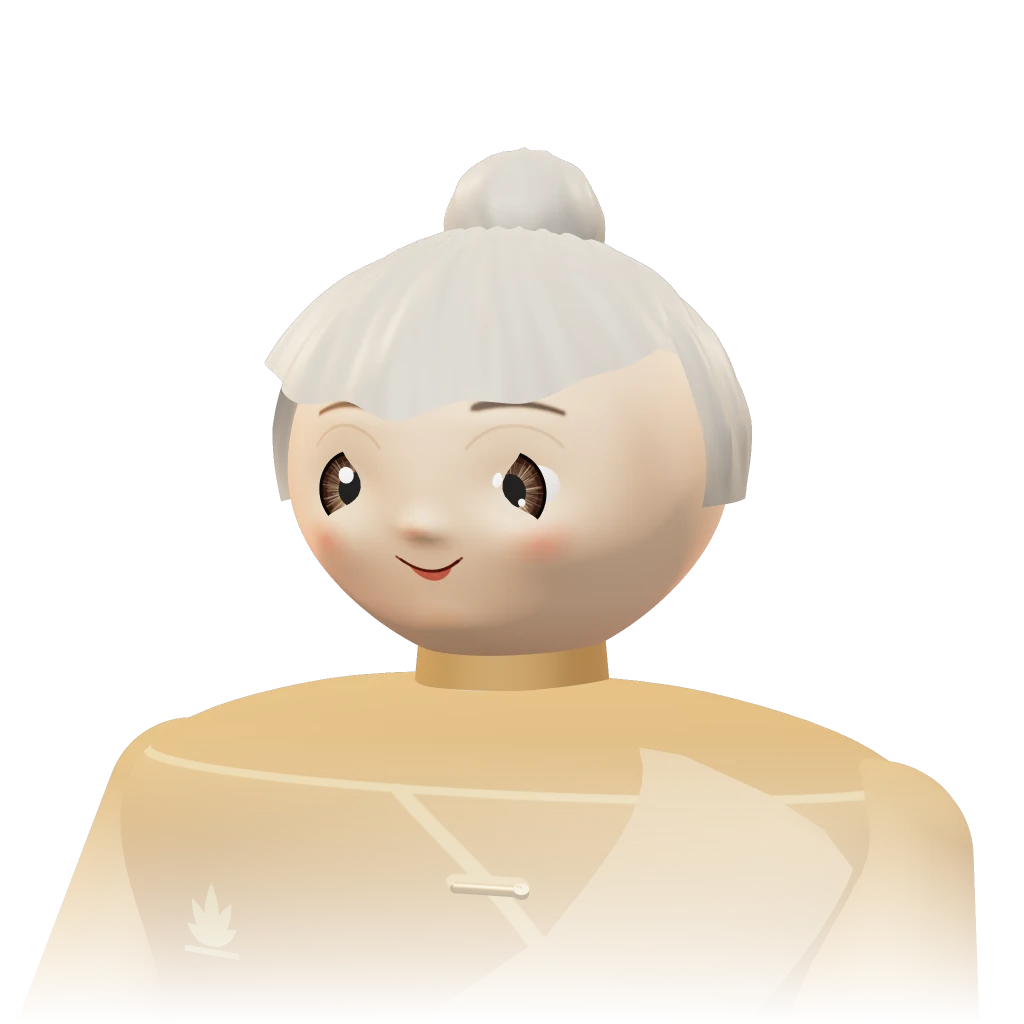
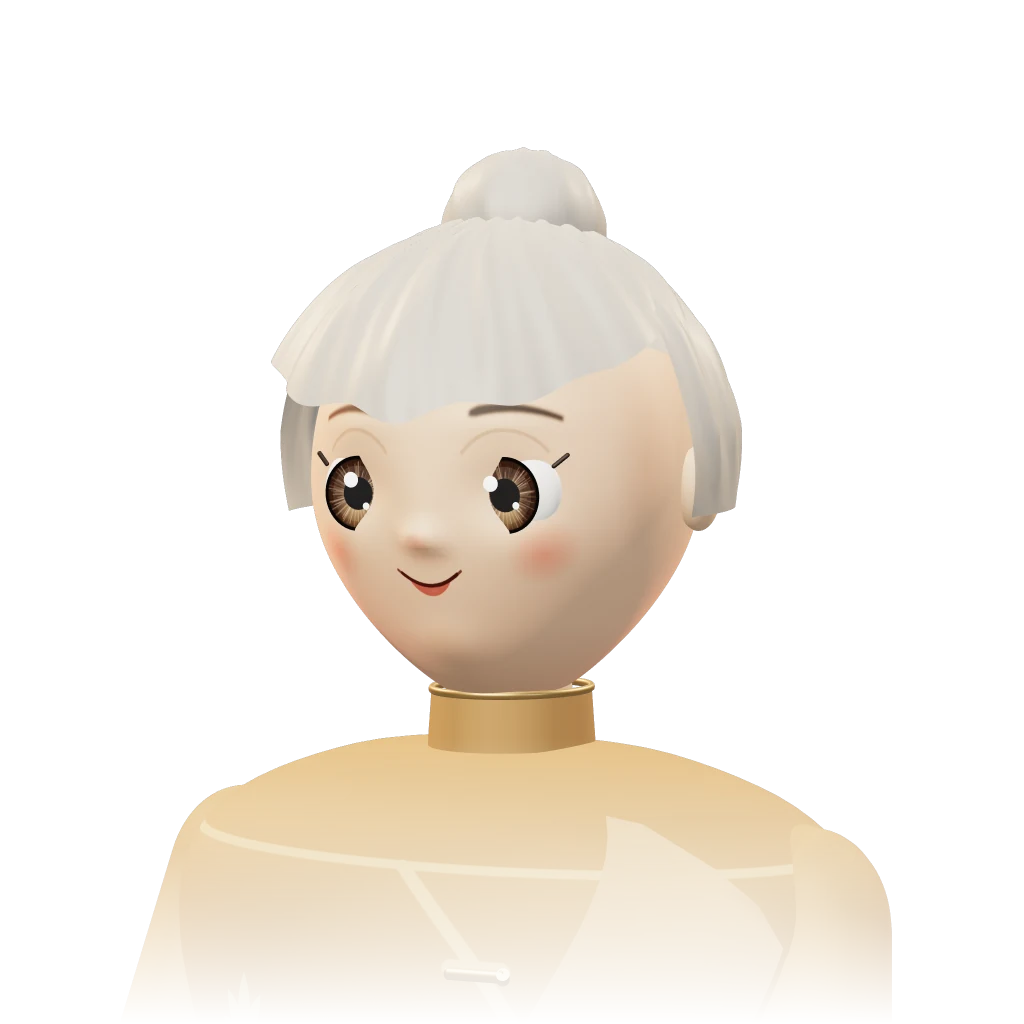
Slimmer, prettier characters
Narrower head with a tapered jaw, softer cheeks and a slender visible
neck; body slimmed to 0.74 x 0.86; oval and heart faces for the cast.
Website companions, Mei's face and tour portrait re-rendered.

Claude-Session: https://claude.ai/code/session_016z3Tz2aq4xKPwxjTYr9bKT

diff --git a/website/tools/companions.ts b/website/tools/companions.ts
@@ -101,10 +101,10 @@ export function portrait(name: string, size = 640, ss = 2, o: Opts = {}): string
   fig.group.traverse((x) => x.scale.y < 0.5 && x.scale.y > 0 && x.scale.x === 1 && (x.scale.y = 1));
   // No table in front: hide the forearms and hands that rest on its rim.
   fig.group.updateMatrixWorld(true);
-  fig.group.children.forEach((o) => new THREE.Box3().setFromObject(o).max.y < 0.45 && (o.visible = false));
+  fig.group.children.flatMap((c) => (c.children.length && c.type === 'Group' && c.scale.x !== 1 ? c.children : [])).forEach((o) => new THREE.Box3().setFromObject(o).max.y < 0.45 && (o.visible = false));
   const cam = new THREE.PerspectiveCamera(20, 1, 0.1, 50);
-  cam.position.set(0, 1.8, 6.4);
-  cam.lookAt(0, 1.56, 0);
+  cam.position.set(0, 1.86, 5.7);
+  cam.lookAt(0, 1.64, 0);
   r.render(scene, cam);
 
   const out = document.createElement('canvas');
@@ -126,9 +126,9 @@ export function portrait(name: string, size = 640, ss = 2, o: Opts = {}): string
 
 /** Three friends for the "Your Friends" card: player looks from the avatar shop, side by side. */
 export const FRIENDS: AvatarSpec[] = [
-  { ...DEFAULT_AVATAR, face: 'round', eyes: 'round', nose: 'button', skin: 7, hair: 'long', hairColor: '#3b2a20', hairPart: 'centre', hairBun: 'top', outfit: 'sweater', outfitColor: '#a3242c', eyeColor: '#4a2c1a' },
-  { ...DEFAULT_AVATAR, face: 'round', eyes: 'round', nose: 'button', skin: 3, hair: 'short', hairColor: '#1b1715', outfit: 'blazer', outfitColor: '#1d2a4e', eyewear: 'sunglasses', eyeColor: '#2a1a12' },
-  { ...DEFAULT_AVATAR, face: 'round', eyes: 'round', nose: 'button', skin: 0, hair: 'bob', hairColor: '#a37b4c', hairPart: 'centre', outfit: 'qipao', outfitColor: '#245a3e', eyeColor: '#4a2c1a' },
+  { ...DEFAULT_AVATAR, face: 'oval', eyes: 'round', nose: 'button', skin: 7, hair: 'long', hairColor: '#3b2a20', hairPart: 'centre', hairBun: 'top', outfit: 'sweater', outfitColor: '#a3242c', eyeColor: '#4a2c1a' },
+  { ...DEFAULT_AVATAR, face: 'oval', eyes: 'round', nose: 'button', skin: 3, hair: 'short', hairColor: '#1b1715', outfit: 'blazer', outfitColor: '#1d2a4e', eyewear: 'sunglasses', eyeColor: '#2a1a12' },
+  { ...DEFAULT_AVATAR, face: 'oval', eyes: 'round', nose: 'button', skin: 0, hair: 'bob', hairColor: '#a37b4c', hairPart: 'centre', outfit: 'qipao', outfitColor: '#245a3e', eyeColor: '#4a2c1a' },
 ];
 
 /** A group portrait of FRIENDS, the middle one a step forward, the others turned in toward them. */
@@ -150,7 +150,7 @@ export function friends(size = 640, ss = 2, exposure = 1.0): string {
     fig.group.traverse((o) => o.scale.y < 0.5 && o.scale.y > 0 && o.scale.x === 1 && (o.scale.y = 1));
     // No table in front of them: hide the forearms and hands that rest on its rim.
     fig.group.updateMatrixWorld(true);
-    fig.group.children.forEach((o) => new THREE.Box3().setFromObject(o).max.y - fig.group.position.y < 0.45 && (o.visible = false));
+    fig.group.children.flatMap((c) => (c.children.length && c.type === 'Group' && c.scale.x !== 1 ? c.children : [])).forEach((o) => new THREE.Box3().setFromObject(o).max.y - fig.group.position.y < 0.45 && (o.visible = false));
     return fig;
   });
   const cam = new THREE.PerspectiveCamera(26, 1, 0.1, 50);

diff --git a/src/render/avatar3d.ts b/src/render/avatar3d.ts
@@ -15,10 +15,10 @@ const GOLD = '#c8a46a';
 const UP = new THREE.Vector3(0, 1, 0);
 
 /** Head centre in figure space (feet at the floor far below; y 0 is the table top). */
-const HEAD_Y = 1.6;
+const HEAD_Y = 1.7;
 const HEAD_R = 0.42;
 /** The head group's scale on the shoulders: a big, friendly head, as stylised characters wear it. */
-const HEAD_SCALE = 1.12;
+const HEAD_SCALE = 1.02;
 /** Where the head pivots (top of the neck). */
 const NECK_Y = 1.14;
 /** Where the head's centre ends up, after HEAD_SCALE. */
@@ -29,17 +29,17 @@ const FACE: Record<string, [number, number, number]> = { oval: [1, 1, 1], round:
 
 /** Head ellipsoid radii (x, upper y, lower y, z); the lower half tapers toward the chin. */
 /** How much the head narrows toward the chin. */
-const JAW = 0.2;
-const HEAD_AX = HEAD_R * 0.97,
-  HEAD_UP = HEAD_R * 1.06,
-  HEAD_DN = HEAD_R * 0.98,
-  HEAD_AZ = HEAD_R * 0.97;
+const JAW = 0.36;
+const HEAD_AX = HEAD_R * 0.88,
+  HEAD_UP = HEAD_R * 1.08,
+  HEAD_DN = HEAD_R * 1.06,
+  HEAD_AZ = HEAD_R * 0.95;
 
 /** Eye centre (x either side, height above the head centre): big eyes set low and wide. */
-const EYE_X = 0.158,
-  EYE_Y = -0.012;
+const EYE_X = 0.145,
+  EYE_Y = -0.005;
 /** Eyeball radius. */
-const EYE_R = 0.092;
+const EYE_R = 0.085;
 
 /**
  * Mesh and texture detail, fixed for the session: smooth silhouettes and fine
@@ -80,7 +80,7 @@ function sculpt(x: number, dy: number, nose: string) {
   // A gentle brow.
   d += 0.008 * gauss(ax, dy, 0.14, 0.12, 0.1, 0.03);
   // Full, round cheeks.
-  d += 0.034 * gauss(ax, dy, 0.2, -0.12, 0.085, 0.07);
+  d += 0.012 * gauss(ax, dy, 0.19, -0.1, 0.07, 0.06);
   // A small round chin.
   d += 0.016 * gauss(x, dy, 0, -0.29, 0.07, 0.045);
   return d;
@@ -866,6 +866,11 @@ export class SeatFigure {
     // Few draw calls: everything that never moves on its own is merged per material.
     mergeStatic(this.group, new Set<THREE.Object3D>([this.head, this.torso]));
     mergeStatic(this.head, new Set<THREE.Object3D>(this.eyes));
+    // A slender build: the body (not the head) narrowed across the shoulders and front to back.
+    const body = new THREE.Group();
+    for (const c of [...this.group.children]) if (c !== this.head) body.add(c);
+    body.scale.set(0.74, 1, 0.86);
+    this.group.add(body);
   }
 
   private buildBody() {
@@ -874,7 +879,7 @@ export class SeatFigure {
     this.torso = mesh(lathe, m.outfit, this.group);
     this.torso.scale.set(TORSO_SX, 1, TORSO_SZ);
     // Neck.
-    mesh(geo('neck', () => new THREE.CylinderGeometry(0.19, 0.22, 0.34, seg(14))), m.skinShade, this.group, 0, 1.22, 0);
+    mesh(geo('neck', () => new THREE.CylinderGeometry(0.145, 0.17, 0.4, seg(14))), m.skinShade, this.group, 0, 1.25, 0);
     // Arms: upper arm down from the shoulder, forearm forward onto the rim, a hand at rest.
     for (const side of [-1, 1]) {
       const sh = new THREE.Vector3(side * 0.86, 0.86, 0);

diff --git a/src/cosmetics/cast.ts b/src/cosmetics/cast.ts
@@ -6,17 +6,17 @@
 
 import { DEFAULT_AVATAR, type AvatarSpec } from './catalog';
 
-const look = (x: Partial<AvatarSpec>): AvatarSpec => ({ ...DEFAULT_AVATAR, face: 'round', eyes: 'round', nose: 'button', brows: 'soft', lips: 'medium', ...x });
+const look = (x: Partial<AvatarSpec>): AvatarSpec => ({ ...DEFAULT_AVATAR, face: 'oval', eyes: 'round', nose: 'button', brows: 'soft', lips: 'medium', ...x });
 
 export const CAST: Record<string, AvatarSpec> = {
   // The Teacher: long hair with a bun, round gold glasses, an indigo cape with a gold frog over a white blouse.
-  Mei: look({ skin: 7, hair: 'long', hairColor: '#3b2a20', hairPart: 'centre', hairBun: 'side', eyewear: 'round', outfit: 'blazer', outfitColor: '#3c3768', garment: 'cape', eyeColor: '#4a2c1a' }),
+  Mei: look({ face: 'heart', skin: 7, hair: 'long', hairColor: '#3b2a20', hairPart: 'centre', hairBun: 'side', eyewear: 'round', outfit: 'blazer', outfitColor: '#3c3768', garment: 'cape', eyeColor: '#4a2c1a' }),
   // The Shark: a silver bob with a swept quiff, black round shades, a dark mandarin jacket with tan straps and a knight badge.
   Rex: look({ skin: 2, hair: 'bob', hairColor: '#c4c1bb', hairPart: 'left', eyewear: 'sunglasses', outfit: 'qipao', outfitColor: '#1d1e24', garment: 'straps', badge: 'knight', brows: 'straight', eyeColor: '#2a1a12' }),
   // The Wall: a dark bob under an orange beret, round gold glasses, a cream turtleneck and leather braces.
   Hiro: look({ skin: 7, hair: 'bob', hairColor: '#2a1d17', hairPart: 'centre', eyewear: 'round', headwear: 'beret', wearColor: '#e07a32', outfit: 'sweater', outfitColor: '#ece2d0', turtleneck: true, garment: 'suspenders', eyeColor: '#3a2416' }),
   // The Gambler: a dark bob under a wide-brimmed hat, a red blazer, a cream scarf and a spade pin.
-  Lucky: look({ skin: 3, hair: 'bob', hairColor: '#1b1715', hairPart: 'centre', headwear: 'fedora', wearColor: '#c46a2a', outfit: 'blazer', outfitColor: '#9c1f26', garment: 'scarf', badge: 'spade', eyeColor: '#3a2416' }),
+  Lucky: look({ face: 'heart', skin: 3, hair: 'bob', hairColor: '#1b1715', hairPart: 'centre', headwear: 'fedora', wearColor: '#c46a2a', outfit: 'blazer', outfitColor: '#9c1f26', garment: 'scarf', badge: 'spade', eyeColor: '#3a2416' }),
   // The Zen Player: silver hair in a top bun, a sand robe with a draped shawl and a lotus.
   Amara: look({ skin: 1, hair: 'bun', hairColor: '#b9b4ab', hairPart: 'centre', outfit: 'qipao', outfitColor: '#b78a52', garment: 'shawl', badge: 'lotus', eyes: 'upturned', eyeColor: '#4a2c1a' }),
   // Alternates for the same personalities.
